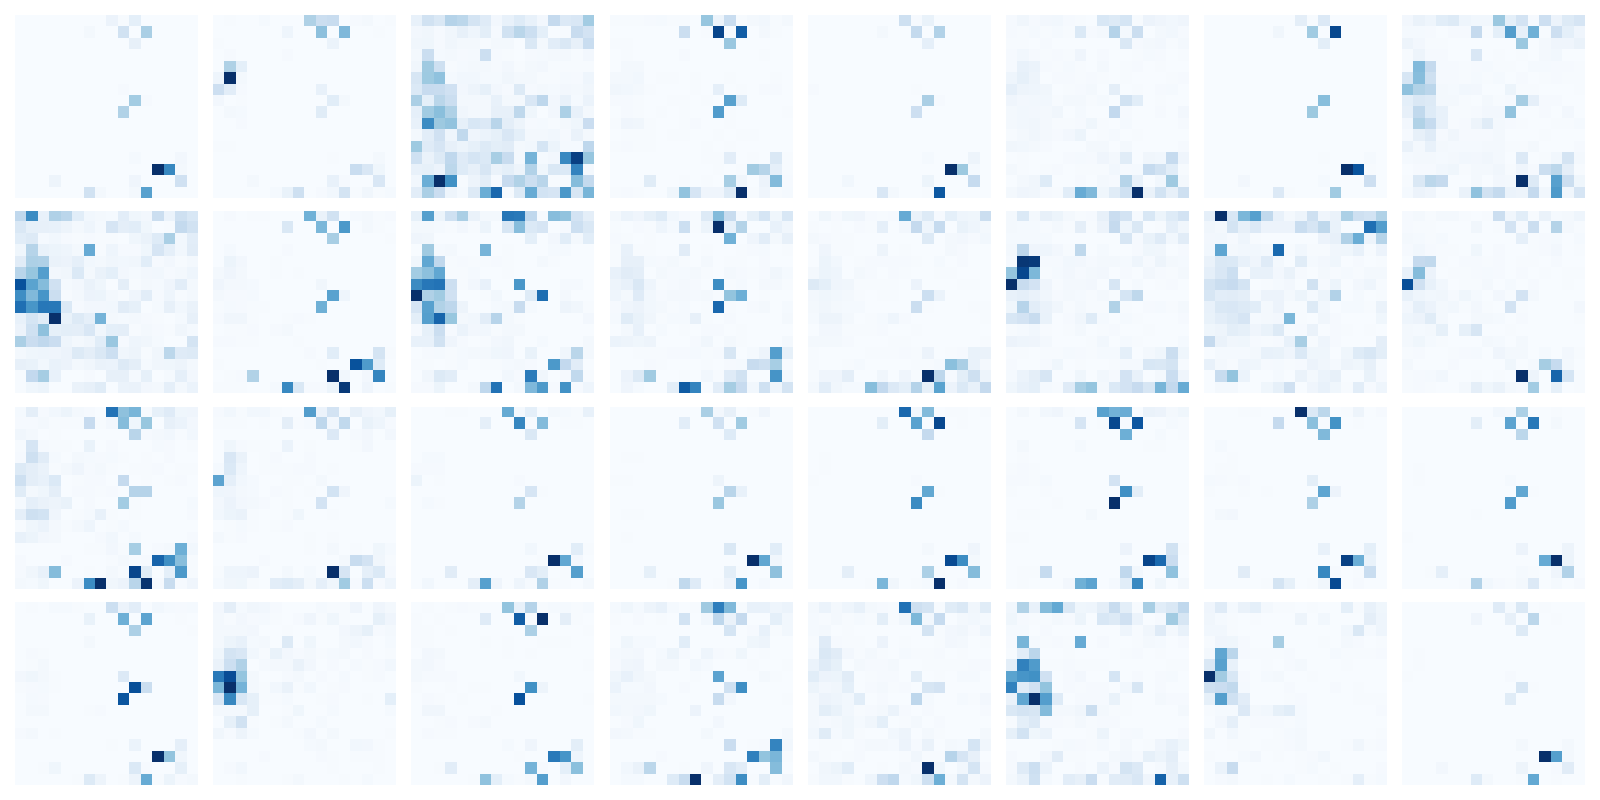
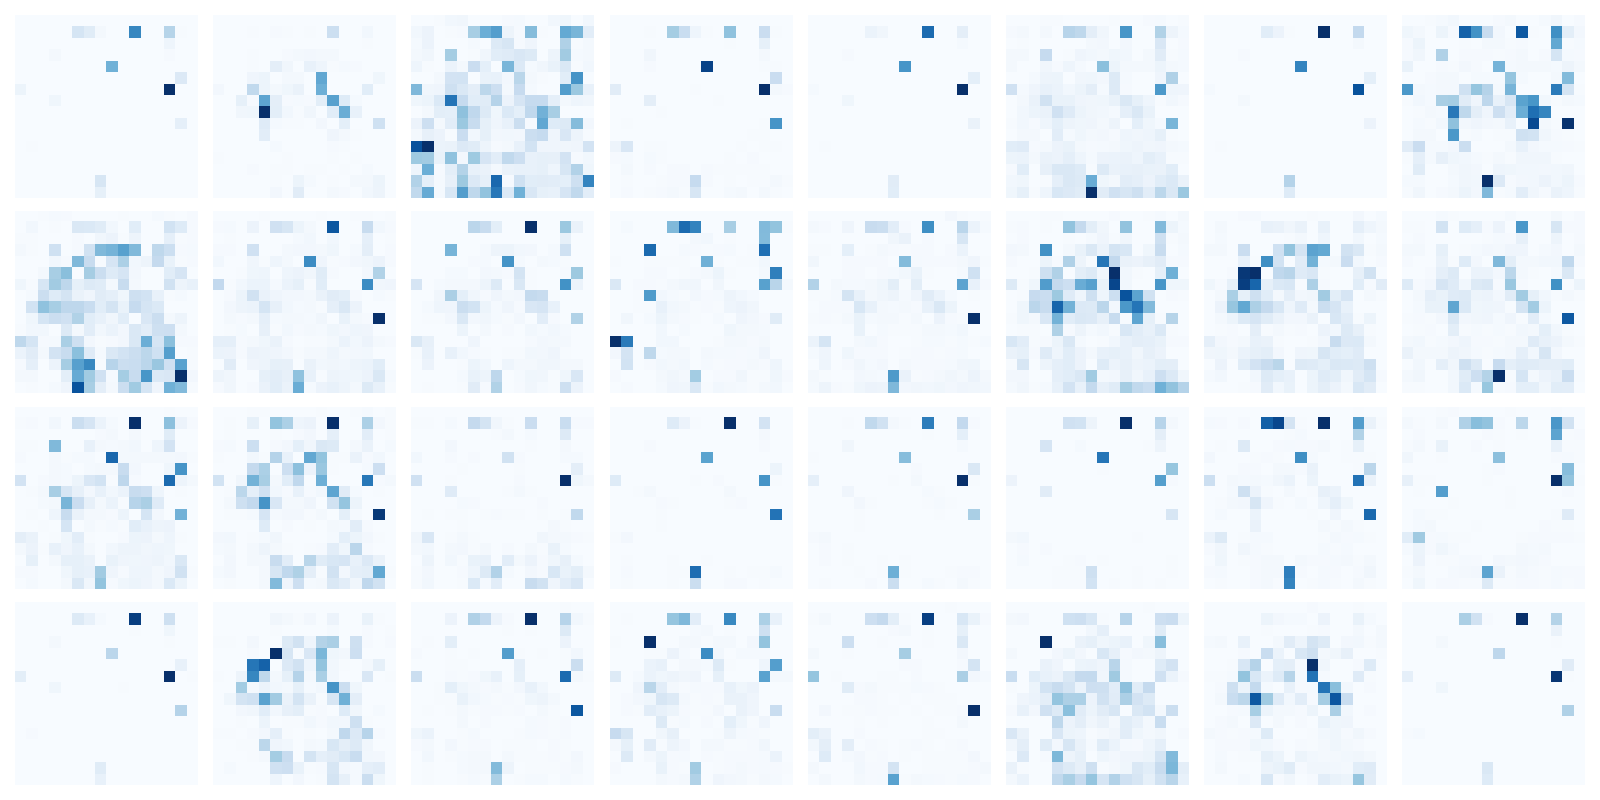
add mean attention for layer and lang-sam

diff --git a/example_explain_panda_vit.py b/example_explain_panda_vit.py
@@ -1,0 +1,73 @@
+from atman_magma.explainer import Explainer
+from atman_magma.logit_parsing import get_delta_cross_entropies
+import matplotlib.pyplot as plt
+import cv2
+import numpy as np
+import torch
+from nxtp.src.functions import load_clip, load_llama
+from nxtp.src.utils import load_config, set_dtype
+
+
+print('loading model...')
+cfg = load_config(["--config", "configs/config_g3m.py"]).args
+cfg = set_dtype(cfg)
+cfg.resume_ckpt_path = "nxtp/nxtp/ckpt_epoch_03_iter_1656549.pth"
+cfg.inference_mode = bool(1)
+
+# set device
+device = torch.device("cuda")
+
+# load models
+llama_model, tokenizer, model_args = load_llama(cfg, device)
+clip_model = load_clip(cfg, device)
+
+# from magma.image_input import ImageInput
+import  PIL.Image as PilImage
+
+
+ex = Explainer(
+    model = clip_model,
+    device = device,
+    tokenizer = model.tokenizer,
+#     conceptual_suppression_threshold = None
+    conceptual_suppression_threshold = 0.75
+)
+
+prompt =[
+    ## supports urls and path/to/image
+    PilImage.open('openimages-panda.jpg'),
+    'This is a picture of a'
+]
+
+## returns a tensor of shape: (1, 149, 4096)
+embeddings = model.preprocess_inputs(prompt.copy())
+
+label ='Panda'
+logit_outputs = ex.collect_logits_by_manipulating_attention(
+    prompt = prompt.copy(),
+    target = label,
+    max_batch_size=1,
+    # prompt_explain_indices=[i for i in range(10)]
+)
+
+results = get_delta_cross_entropies(
+    output = logit_outputs
+)
+
+image_filename = 'openimages-panda.jpg'
+
+label_tokens =  model.tokenizer.encode(label)
+
+image = np.zeros((12,12))
+for i in range(len(label_tokens)):
+    image += results.show_image(image_token_start_idx = 0, target_token_idx= i) **2
+
+# image[image<0.6]=1.0
+fig, ax = plt.subplots(nrows=1, ncols=2, figsize = (15 , 6))
+title = f''
+fig.suptitle(title)
+ax[0].imshow(cv2.cvtColor(cv2.imread(image_filename), cv2.COLOR_BGR2RGB))
+ax[1].imshow(image)
+
+fig.savefig('panda-explained-atman.jpg')
+print('panda-explained-atman.jpg')

diff --git a/nxtp/src/infer.py b/nxtp/src/infer.py
@@ -17,7 +17,6 @@ from functions import load_llama, load_clip
 from utils import load_config, set_dtype, load_checkpoint
 
 def get_last_token_attention_map(attn_map, filename="last_token_attention_map.png", cmap="Blues"):
-
     last_token_image_attention = attn_map[0, :, -1, :256]  # Shape: [32, 256]
 
     # Visualizza la mappa di attenzione dell'ultimo token verso i token immagine per ogni testa
@@ -26,12 +25,28 @@ def get_last_token_attention_map(attn_map, filename="last_token_attention_map.pn
         _map = last_token_image_attention[head_idx].reshape(16, 16)  # Riarrangia in 16x16 per i 256 token
         _map = _map.detach().cpu().numpy()
         _map = (_map - _map.min()) / (_map.max() - _map.min() + 1e-6)  # Normalizzazione
-        ax[head_idx // 8, head_idx % 8].imshow(_map, cmap="Blues")
+        ax[head_idx // 8, head_idx % 8].imshow(_map, cmap=cmap)
         ax[head_idx // 8, head_idx % 8].axis("off")
 
     plt.tight_layout()
     os.makedirs("attentions", exist_ok=True)
     plt.savefig(f"attentions/{filename}")
+    plt.close()
+
+    # Calcolo della media delle attention map su tutte le teste
+    avg_attention = last_token_image_attention.mean(axis=0)  # Shape: [256]
+    avg_attention_map = avg_attention.reshape(16, 16)  # Riarrangia in 16x16
+    avg_attention_map = avg_attention_map.detach().cpu().numpy()
+    avg_attention_map = (avg_attention_map - avg_attention_map.min()) / (
+        avg_attention_map.max() - avg_attention_map.min() + 1e-6
+    )  # Normalizzazione
+
+    # Visualizza la mappa di attenzione media
+    plt.figure(figsize=(8, 8))
+    plt.imshow(avg_attention_map, cmap=cmap)
+    plt.axis("off")
+    plt.tight_layout()
+    plt.savefig(f"attentions/average{filename}")
     plt.close()
 
 

diff --git a/lang-sam/test.py b/lang-sam/test.py
@@ -1,0 +1,34 @@
+from PIL import Image
+from lang_sam import LangSAM
+import os
+import pandas as pd
+import json
+import numpy as np
+
+model = LangSAM()
+image_pil = Image.open("nxtp/assets/totk.jpg").convert("RGB")
+text_prompt = "sky."
+results = model.predict([image_pil], [text_prompt])
+
+# Directory for output files
+output_dir = "./output/"
+os.makedirs(output_dir, exist_ok=True)
+
+# Process and save each result
+for idx, result in enumerate(results):
+    # Save boxes and scores as CSV
+    boxes_df = pd.DataFrame(result["boxes"], columns=["x1", "y1", "x2", "y2"])
+    scores_df = pd.DataFrame(result["scores"], columns=["score"])
+    boxes_df.to_csv(f"{output_dir}/boxes_{idx}.csv", index=False)
+    scores_df.to_csv(f"{output_dir}/scores_{idx}.csv", index=False)
+
+    # Save masks as images
+    for mask_idx, mask in enumerate(result["masks"]):
+        mask_img = Image.fromarray((mask * 255).astype(np.uint8))  # Convert to 8-bit grayscale
+        mask_img.save(f"{output_dir}/mask_{idx}_{mask_idx}.png")
+        
+
+    # Save mask scores as JSON
+    mask_scores = result["mask_scores"].tolist()
+    with open(f"{output_dir}/mask_scores_{idx}.json", "w") as f:
+        json.dump(mask_scores, f)
